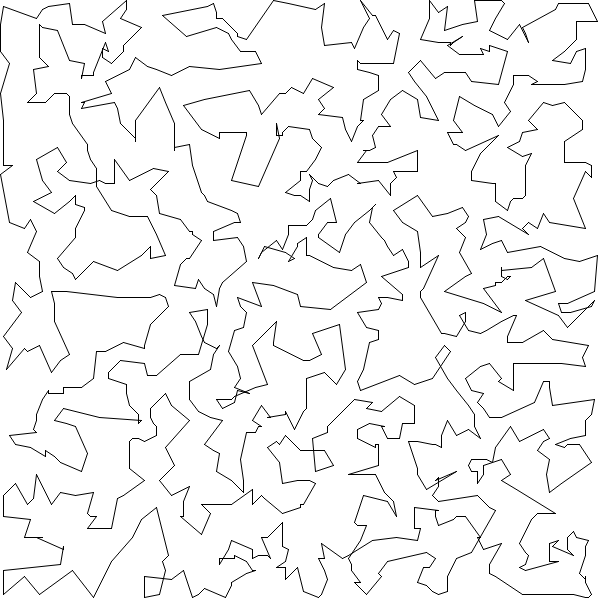
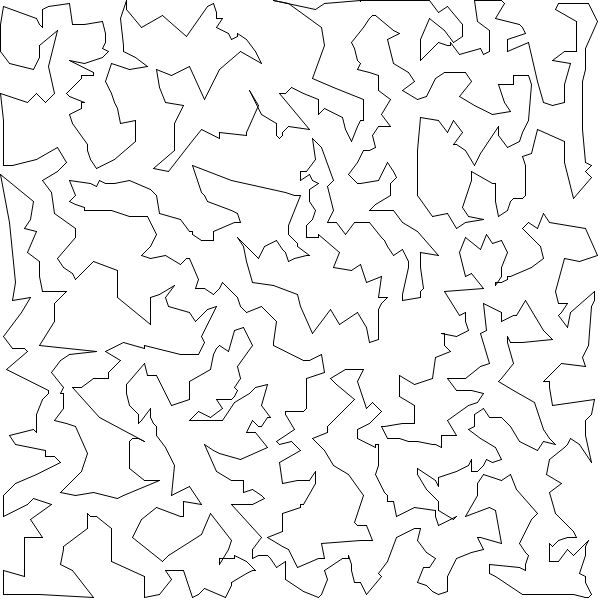
Greedy init

diff --git a/src/main.rs b/src/main.rs
@@ -7,16 +7,37 @@ use rand::prelude::*;
 use plotters::prelude::*;
 use std::time::Instant;
 use ndarray::Array2;
+use std::collections::BTreeSet;
 
 type Point = (i32, i32);
 type P = u16;
 
 const N: P = 1000;
 
-fn annealing<R>(rng: &mut R, solution: &mut Vec<P>, cost_matrix: Array2<u32>) -> u32 where R: Rng {
-    let cost = |a: P, b: P| { cost_matrix[(a as usize, b as usize)] };
-    let mut solution_cost = (1..solution.len())
-        .map(|i| cost(solution[i - 1], solution[i])).sum::<u32>();
+fn arc(cost: &Array2<u32>, a: P, b: P) -> u32 {
+    cost[(a as usize, b as usize)]
+}
+
+fn vec(cost: &Array2<u32>, solution: &Vec<P>) -> u32 {
+    (1..solution.len()).map(|i| arc(cost, solution[i - 1], solution[i])).sum::<u32>()
+}
+
+fn greedy(cost: &Array2<u32>) -> Vec<P> {
+    let mut prev = 0;
+    let mut solution: Vec<P> = Vec::with_capacity(N as usize);
+    solution.push(prev);
+    let mut rest: BTreeSet<P> = (1..N).collect();
+    while !rest.is_empty() {
+        prev = *rest.iter().min_by_key(|next| arc(cost, prev, **next)).unwrap();
+        solution.push(prev);
+        rest.remove(&prev);
+    }
+    solution
+}
+
+fn annealing<R>(rng: &mut R, solution: &mut Vec<P>, cost: &Array2<u32>) -> u32 where R: Rng {
+    let c = |a: P, b: P| { arc(cost, a, b) };
+    let mut solution_cost = vec(cost, solution);
 
     for _ in 0..2000000 {
         let a = rng.gen_range(1, N-1);
@@ -27,12 +48,12 @@ fn annealing<R>(rng: &mut R, solution: &mut Vec<P>, cost_matrix: Array2<u32>) ->
             let am = solution[a as usize - 1];
             let bz = solution[b as usize];
             let bp = solution[b as usize + 1];
-            (cost(am, az) + cost(bz, bp),
-             cost(am, bz) + cost(az, bp))
+            (c(am, az) + c(bz, bp),
+             c(am, bz) + c(az, bp))
         };
         let e = estimate(a, b);
 
-        if e.1 <= e.0 + 1 {
+        if e.1 <= e.0 {
             solution[a as usize..=b as usize].reverse();
             solution_cost = solution_cost - e.0 + e.1;
         }
@@ -41,7 +62,7 @@ fn annealing<R>(rng: &mut R, solution: &mut Vec<P>, cost_matrix: Array2<u32>) ->
     solution_cost
 }
 
-fn draw(visits: &Vec<u16>, points: Vec<Point>) {
+fn draw(visits: &Vec<P>, points: Vec<Point>) {
     let root = BitMapBackend::new("plot.png", (600, 600)).into_drawing_area()
         .apply_coord_spec(RangedCoord::<RangedCoordi32, RangedCoordi32>::new(-100..100, -100..100, (0..600, 0..600)));
     root.fill(&WHITE).unwrap();
@@ -56,17 +77,18 @@ fn main() {
     let points: Vec<Point> = (0..N)
         .map(|_| (rng.gen_range(-100, 100), rng.gen_range(-100, 100))).collect();
 
-    let ds: Array2<u32> = Array2::from_shape_fn(
+    let cost: Array2<u32> = Array2::from_shape_fn(
         (N as usize, N as usize),
         |(a, b)| ((points[a].0 - points[b].0) as f64)
             .hypot((points[a].1 - points[b].1) as f64)
             .ceil() as u32);
 
-    let mut solution: Vec<P> = (0..N).collect();
+    //let mut solution: Vec<P> = (0..N).collect();
+    let mut solution = greedy(&cost);
     solution.push(0);
-
-    let solution_cost = annealing(&mut rng, &mut solution, ds);
-
+    let solution_cost = annealing(&mut rng, &mut solution, &cost);
+    println!("{:?} {:?}", start.elapsed(), solution_cost);
+    let solution_cost = vec(&cost, &solution);
     println!("{:?} {:?}", start.elapsed(), solution_cost);
     draw(&solution, points);
 }
